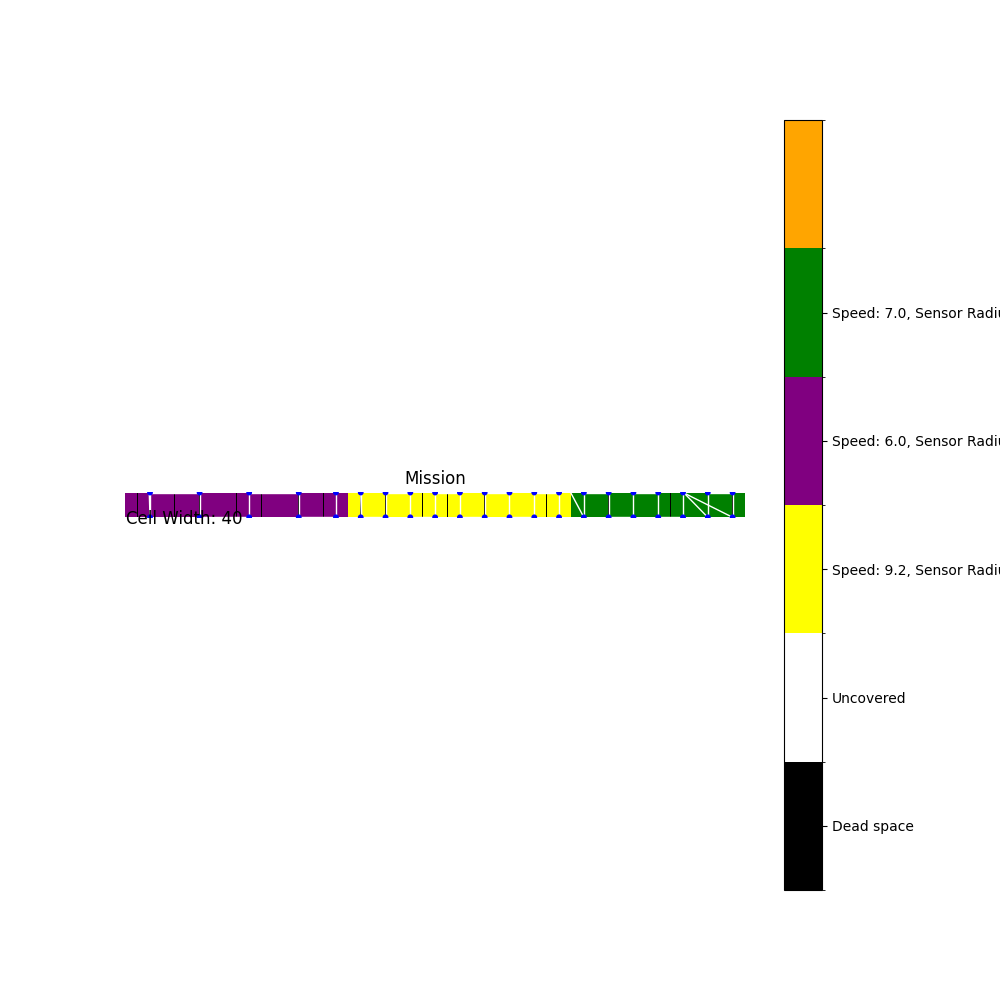
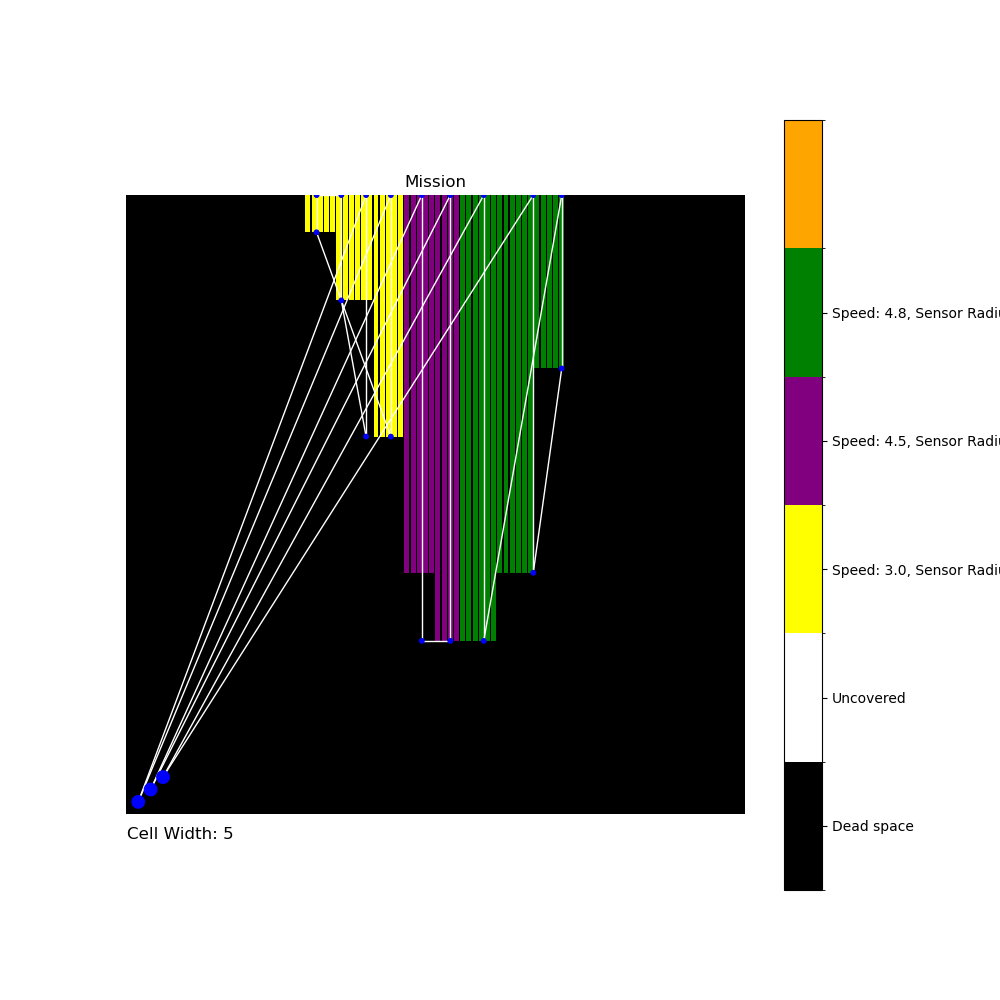
Changed logic for selecting regions to trade, no precomputes pairs and ranks them according to an index. Available pairs with the highest index are selected for trade.

diff --git a/py/HARMONY/AlgorithmDevelopment/regionFineTuning.py b/py/HARMONY/AlgorithmDevelopment/regionFineTuning.py
@@ -2,60 +2,63 @@ from AlgorithmDevelopment.MissionArea import MissionArea
 from collections import defaultdict
 import heapq
 
-
 # Pre-condition: A mission area, the number of iterations the fine tuning should run for, and the account balances
 #                for the vehicles/regions
 # Post-condition: Updates mission area with new regions which should more closely reflect optimal vehicle assignments
-def region_fine_tuning(mission, iterations, account_balances):
+def region_fine_tuning(mission, iterations, account_balances : list[int]):
     # Create a map from vehicle to index.
     # Needed because of change of nodes.[node]['region'] from int to tuple
     region_map = {}
-    for i, v in enumerate(mission.vehicles):
-        region_map[v] = i
+    for e, v in enumerate(mission.vehicles):
+        region_map[v] = e
 
     graph = mission.grid_graph.graph
     i = iterations
     pairsTimeOut = dict() # frozen set of two regions to a counter for how many turns they are in time out (if untradeable)
     regionNeighborNodes = find_neighbor_nodes(mission)
+    computedPairs = [] # max heap (min heap but using negated values)
+
     while(i > 0):
         printIteration(i, iterations)
+        print(f"Account balances: {account_balances}")
         # Select buyer and seller
         pairFound = False
-        kthBestBuyer = 1 # Increase to get next largest
-        kthBestSeller = 1 # Increase to get next smallest
-        pairCounter = 0
         
-        print("Selecting seller and buyer...")
-        while pairFound == False and pairCounter < len(account_balances) * len(account_balances):
-            pairCounter += 1
-            buyer = heapq.nlargest(kthBestBuyer, range(len(account_balances)), key=lambda i: account_balances[i])[-1]
-            sellerKey = heapq.nsmallest(kthBestSeller, regionNeighborNodes[mission.vehicles[buyer]], key=lambda node_key: account_balances[region_map[graph.nodes[node_key]['region']]])[-1]
-            seller = region_map[graph.nodes[sellerKey]['region']]
+        # Pre-compute the pairs
+        for region in range(len(account_balances)):
+            currBal = account_balances[region]
+            for adjRegion in range(len(regionNeighborNodes[mission.vehicles[region]])):
+                adjBal = account_balances[adjRegion]
+                difference = currBal - adjBal
+                if difference < 0:
+                    continue
+                # else
+                computedPair = (region, adjRegion)
+                pairObj = ((-1 * difference), computedPair)
+                heapq.heappush(computedPairs, pairObj)
+
+        while pairFound == False and computedPairs:
+            pairObj = heapq.heappop(computedPairs)
             try:
-                tradeable = pairsTimeOut[frozenset({buyer, seller})] == 0
-            except KeyError:
-                tradeable = True
-            if tradeable == False:
-                print("Pair is on timeout, searhcing for next best pair")
-            if tradeable and len(mission.vehicle_assignments[mission.vehicles[seller]]) > 1:
+                if pairsTimeOut[frozenset({pairObj[1][0], pairObj[1][1]})] == 0:
+                    buyer = pairObj[1][0]
+                    seller = pairObj[1][1]
+                    pairFound = True
+                    print(f"Pair found. The buyer is: ${buyer}, The seller is: ${seller}")
+            except:
+                buyer = pairObj[1][0]
+                seller = pairObj[1][1]
                 pairFound = True
-                print("Seller and buyer successfully found")
-                print(f"Buyer's balance {account_balances[buyer]}")
-                print(f"Seller's balance {account_balances[seller]}")
-            else: 
-                if kthBestBuyer == kthBestSeller:
-                    kthBestBuyer += 1
-                else: 
-                    kthBestSeller += 1
-         # Subtract timeout from pairs
+
+        # Subtract timeout from pairs
         for pair in pairsTimeOut.keys():
             if pairsTimeOut[pair] > 0:
                 pairsTimeOut[pair] -= 1
 
         # If none of the pairs are tradeable
         if pairFound == False:
+            print("No pairs are available for trade.")
             continue
-
        
         print("================================================")
         # Find tasks to trade and update vehicle assignments
@@ -111,11 +114,33 @@ def find_kept_nodes(mission, regionNeighborNodes, buyer, seller, account_balance
             bestTradeIndex = float('inf')
             bestTradeSum = 0
             bestTrade = {}
+            print(f"Seller region subgraph: {sellerRegionSubgraph.nodes.items()}")
+
+            if set(sellerRegionSubgraph) - mission.vehicle_assignments[mission.vehicles[seller]] == set() and mission.vehicle_assignments[mission.vehicles[seller]] - set(sellerRegionSubgraph) == set():
+                print(f"Seller region subgraph and seller assignments contain the same elements")
+            else:
+                print(f"Seller region subgraph and seller assignments DO NOT contain the same elements")
+
+            if(set(sellerRegionSubgraph) - set(graph) == set()):
+                print(f"All items in the seller region subgraph are in the graph.")
+            else:
+                print(f"There exists items in the seller region subgraph that are not in the graph")
+            assert (set(sellerRegionSubgraph) - set(graph) == set()), "There exists items in the seller region subgraph that are not in the graph."
+
             for neighbor in sellerRegionSubgraph[candidate]:
                 stack = [neighbor]
                 visited = set()
                 dfs(visited, stack, candidate, sellerRegionSubgraph)
+                print(f"Visited: {visited}")
+                print(f"Seller region: {mission.vehicle_assignments[mission.vehicles[seller]]}")
+
                 candidateTrade = mission.vehicle_assignments[mission.vehicles[seller]] - visited
+                print(f"Current candidate trade: {candidateTrade}")
+                if candidateTrade - set(graph) == set():
+                    print(f"All items in the candidate trade are in the graph")
+                else:
+                    print(f"There exists items in the candidate trade that are not in the graph: {candidateTrade - set(graph)}")
+
                 tradeSum = sum_weights(mission, candidateTrade)
                 currTradeIndex = max(abs(account_balances[buyer] - tradeSum), abs(account_balances[seller] + tradeSum))
                 if currTradeIndex < bestTradeIndex:
@@ -174,12 +199,16 @@ def find_neighbor_nodes (mission: MissionArea):
             neighbor_data = graph.nodes[neighbor_key]
             if neighbor_data['region'] != node_data['region']:
                  regionNeighborNodes[node_data['region']].add(neighbor_key)
+    print(f"{regionNeighborNodes}")
     return regionNeighborNodes
 
 def sum_weights(mission, subgraph):
     print("\tCalculating weight sum...")
     graph = mission.grid_graph.graph
     weightSum = 0
+    print(f"Vehicle start positions: {mission.vehicles}")
+    print(f"\tAll nodes in the subgrapgh: {subgraph}")
+    print(f"\tAll nodes in the graph: {graph.nodes.items()}")
     for node_key in subgraph:
         node_data = graph.nodes[node_key]
         weightSum += node_data['weight']

diff --git a/py/HARMONY/AlgorithmDevelopment/newFineTuning.py b/py/HARMONY/AlgorithmDevelopment/newFineTuning.py
@@ -1,0 +1,53 @@
+import networkx as nx
+
+def region_fine_tuning(mission):
+    # First form the region graph
+    region_neighbor_nodes = find_neighbor_nodes(mission)
+
+    print("Printing through region neighbor nodes...")
+    # for (region, node_set) in region_neighbor_nodes.items():
+    #     print(f"Region: {str(region)}\nSet:{str(node_set)}")
+    print(f"{str(region_neighbor_nodes.items())}")
+    # region_graph = form_region_graph(mission, region_neighbor_nodes)
+    # print(f" Region graph: {str(region_graph.edges)}")
+
+# Pre-condition: A mission area
+# Post-condtion: Returns a dictionary mapping an integer representing region to a set of nodes that neighbor that region
+def find_neighbor_nodes (mission):
+    graph = mission.grid_graph.graph
+    print("Entering findNeighborNodes")
+    # initalize a dictionary of empty sets for holding the neighbors of each region
+    regionNeighborNodes = {key: set() for key in mission.vehicles}
+    # Iterate through the node keys in the graph and then the keys of that node's neighbors\
+    print(f"All of the nodes in the graph: {str(graph.nodes)}")
+    for node_key in graph.nodes:
+        node_data = graph.nodes[node_key]
+        for neighbor_key in graph[node_key]:
+            neighbor_data = graph.nodes[neighbor_key]
+            if neighbor_data['region'] != node_data['region']:
+                 print(f"{str(node_data['region'])} has a region neighbor of {str(neighbor_data['region'])}")
+                 regionNeighborNodes[node_data['region']].add(neighbor_key)
+    return regionNeighborNodes
+
+def form_region_graph(mission, region_neighbor_nodes) :
+    print("Forming region graph...")
+    mission_graph = mission.grid_graph.graph
+    region_graph = nx.Graph()
+    for (region, nodeSet) in region_neighbor_nodes.items():
+        if region not in region_graph:
+            print(f"Adding {region} to the region graph")
+            region_graph.add_node(region)
+        neighbor_regions = set()
+        for node_key in nodeSet:
+            node_data = mission_graph.nodes[node_key]
+            if node_data['region'] not in neighbor_regions:
+                neighbor_regions.add(node_data['region'])
+                if node_data['region'] not in region_graph:
+                    print(f"Adding {node_data['region']} to the graph")
+                    region_graph.add_node(node_data['region'])
+                if (region, node_data['region']) not in region_graph.edges():
+                    print(f"Adding an egde between {region} and {node_data['region']}") 
+                    region_graph.add_edge(region, node_data['region'])    
+    return region_graph
+# Set of connected regions
+    

diff --git a/py/HARMONY/AlgorithmDevelopment/main.py b/py/HARMONY/AlgorithmDevelopment/main.py
@@ -1,14 +1,13 @@
 import matplotlib.pyplot as plt
 
-import missionLayouts
-from MissionArea import MissionArea, calculate_sensor_range_gcd
+from AlgorithmDevelopment.MissionArea import MissionArea, calculate_sensor_range_gcd
 from UxV import UxV
 from AlgorithmDevelopment.cyclicRegionGrowth import cyclic_region_growth
 from AlgorithmDevelopment.cellDecomposition import cell_decomposition
 from AlgorithmDevelopment.regionFineTuning import region_fine_tuning
 from AlgorithmDevelopment.sensorRangeDecomposition import sensor_range_decomposition
 from AlgorithmDevelopment.pathPlanning import calculate_vehicle_paths
-from missionLayouts import *
+from AlgorithmDevelopment.missionLayouts import mission_area_1_upscaled
 
 # Create a list of UxV objects to be added as nodes
 uxvs = []
@@ -17,14 +16,14 @@ uxvs = []
 # uxvs.append(UxV(name="charlie", position=(600,75), speed=(10), sensorRange=(5), type="UUV", endurance=100))
 # uxvs.append(UxV(name="delta", position=(900, 55), speed=(20), sensorRange=(20), type="UUV", endurance=200))
 
-uxvs.append(UxV(name="alpha", position=(5,15), speed=(10), sensorRange=(20), type="UUV", endurance=100))
-uxvs.append(UxV(name="bravo", position=(45,275), speed=(10), sensorRange=(15), type="UUV", endurance=100))
-uxvs.append(UxV(name="charlie", position=(155,275), speed=(10), sensorRange=(5), type="UUV", endurance=100))
-uxvs.append(UxV(name="delta", position=(315, 345), speed=(10), sensorRange=(20), type="UUV", endurance=100))
+uxvs.append(UxV(name="alpha", position=(5,15), speed=(10), sensorRange=(20), type="UUV", endurance=100, color="blue", heading=0))
+uxvs.append(UxV(name="bravo", position=(45,275), speed=(10), sensorRange=(15), type="UUV", endurance=100, color="green", heading=0))
+uxvs.append(UxV(name="charlie", position=(155,275), speed=(10), sensorRange=(5), type="UUV", endurance=100, color="orange", heading=0))
+uxvs.append(UxV(name="delta", position=(315, 345), speed=(10), sensorRange=(20), type="UUV", endurance=100, color="green", heading=0))
 
 # Generate a random 2D numpy array to represent mission area
 # grid_data = genConnectedGrid(75, 50, .2, 5)
-grid_data = missionLayouts.mission_area_1_upscaled
+grid_data = mission_area_1_upscaled
 
 
 # Create a MissionArea object to manage mission info

diff --git a/py/HARMONY/UxV.py b/py/HARMONY/UxV.py
@@ -18,5 +18,8 @@ class UxV:
         self.heading = heading
         self.color = color # Vehicle color
 
+        if(speed < 0 or endurance < 0 or sensorRange < 0):
+            raise Exception("Speed endurance and sensor range cannot be negative, please reinput values.")
+
     def __repr__(self):
         return f"UxV(name={self.name}, type={self.type}, position={self.position}, speed={self.speed}, sensorRange={self.sensorRange}, endurance={self.endurance}, heading={self.heading}, color={self.color})"

diff --git a/py/HARMONY/AlgorithmDevelopment/__init__.py b/py/HARMONY/AlgorithmDevelopment/__init__.py
@@ -1,5 +1,9 @@
 from .MissionArea import MissionArea
-from .UxV import UxV
+from UxV import UxV
 from .generateAssignments import generate_assignments
 from .missionLayouts import *
 from .regionFineTuning import region_fine_tuning
+from .gridGraph import gridGraph
+from .gridVisualizer import GridVisualizer
+from .gridArrayGenerator import genGrid
+from .missionLayouts import *
